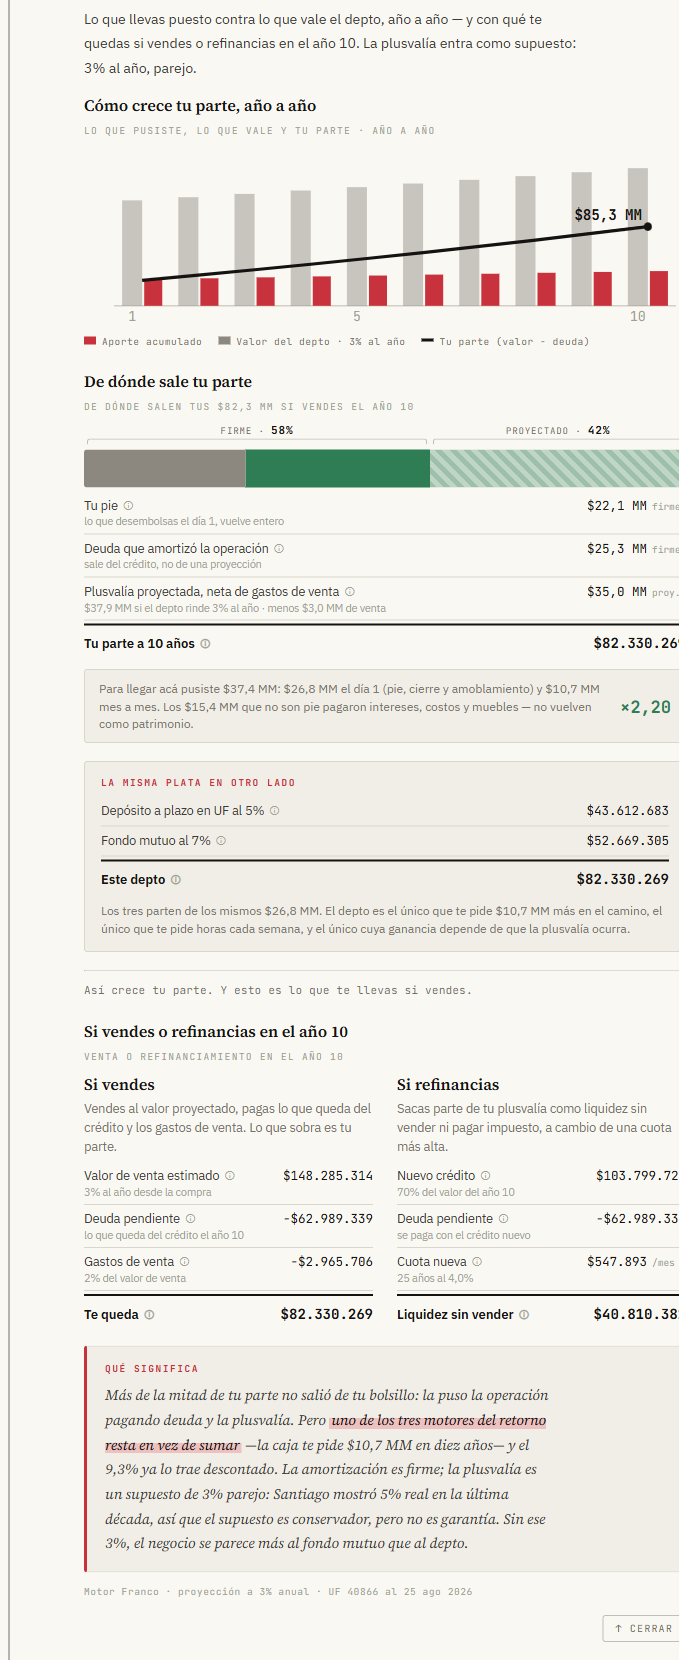
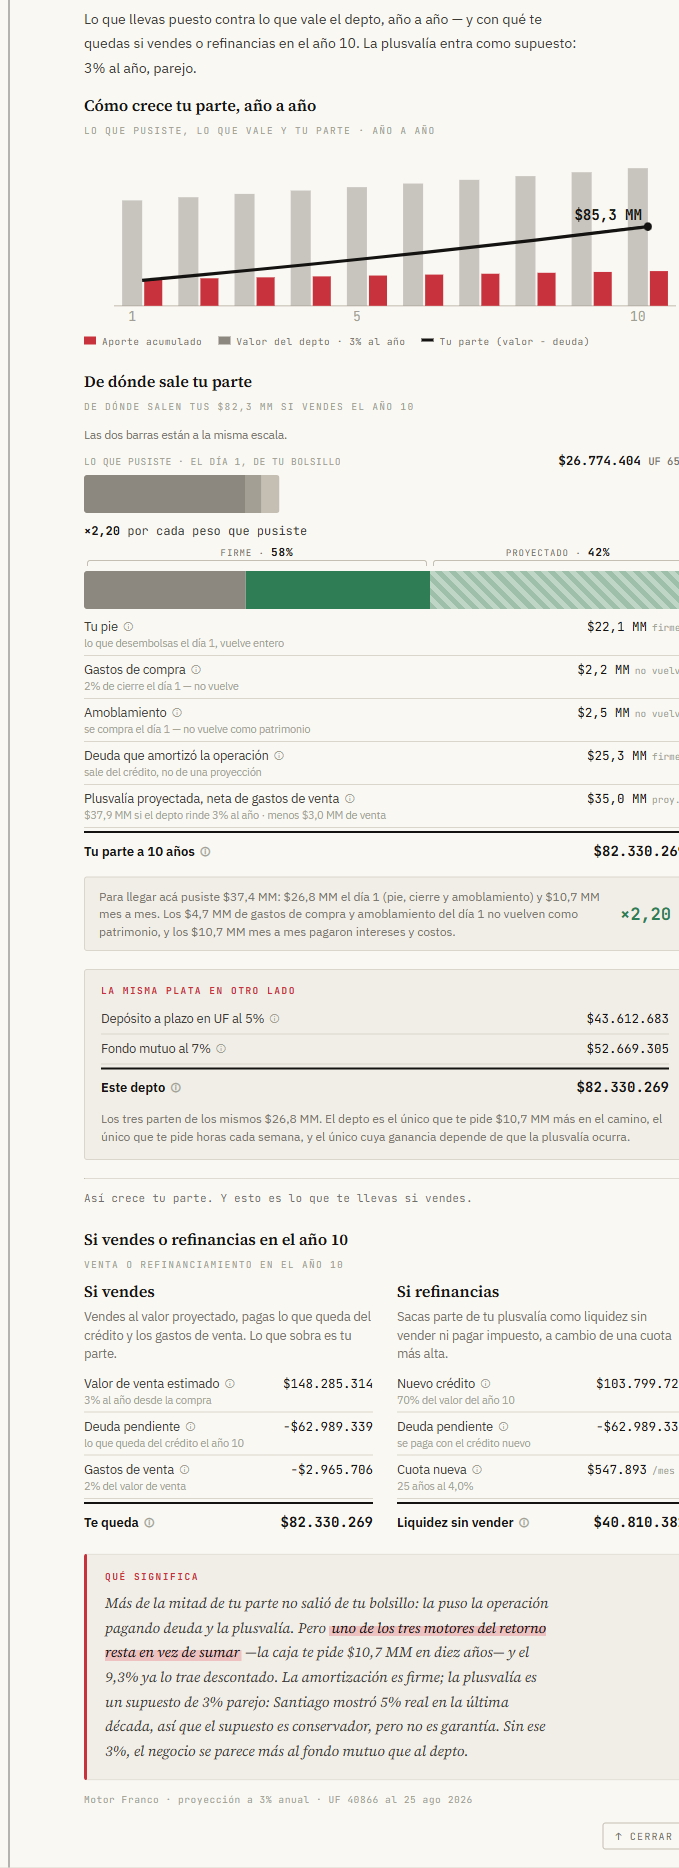
docs(wireframes): CONGELADO STR · capítulo VI adopta el bloque del día 1 como LTR (cuarto tono amoblamiento, "no vuelve", multiplicador sobre lo puesto)
Barra «Lo que pusiste · el día 1» a la misma escala que «tu parte» con pie, gastos de
compra y amoblamiento (helper plata-dia1, cuarto tono), gastos de compra y amoblamiento
como filas «no vuelve» en «De dónde sale tu parte», y el multiplicador sobre lo puesto.
Caja de decisiones al día. Shots PC y 390 del VI. Sin nueva aprobación (T0 · 6).

diff --git a/docs/wireframes/rediseno-informe/mockup-str-CONGELADO.html b/docs/wireframes/rediseno-informe/mockup-str-CONGELADO.html
@@ -505,7 +505,7 @@
   .drow .tip{font-style:normal;font-family:var(--sans);font-size:11px;color:var(--tx4);margin-left:5px;cursor:help;vertical-align:1px}
   .drow .dk small{display:block;font-size:10.5px;color:var(--tx4);margin-top:1px;line-height:1.35}
   .drow .dv{font-family:var(--mono);font-size:12.5px;color:var(--tx);white-space:nowrap;text-align:right;font-variant-numeric:tabular-nums}
-  .drow .dv em{font-style:normal;font-family:var(--mono);font-size:9.5px;color:var(--tx4);display:inline-block;width:34px;text-align:left;margin-left:5px}
+  .drow .dv em{font-style:normal;font-family:var(--mono);font-size:9.5px;color:var(--tx4);display:inline-block;min-width:34px;text-align:left;margin-left:5px}
   .drow.in .dk{color:var(--tx);font-weight:600} .drow.in .dv{font-weight:700}
   .drow.neg .dv{color:var(--signal)} .drow.cruza .dv{color:var(--good);font-weight:700}
   .drow.tot{border-top:2px solid var(--tx);border-bottom:none;margin-top:3px;padding-top:8px}
@@ -518,6 +518,13 @@
   .venta2 h4{font-family:var(--serif);font-size:16px;font-weight:600;margin-bottom:4px}
   .venta2 .ex{font-size:12.5px;color:var(--tx3);line-height:1.5;margin-bottom:6px;min-height:57px} [data-view="mobile"] .venta2 .ex{min-height:0}
   .cur span{cursor:pointer}
+  .dia1{margin:14px 0 6px} .dia1-head{display:flex;justify-content:space-between;align-items:baseline;gap:10px;margin-bottom:6px}
+  .dia1-head .k{font-family:var(--mono);font-size:9.5px;letter-spacing:.06em;text-transform:uppercase;color:var(--tx4)} .dia1-head .v{font-family:var(--mono);font-size:12.5px;font-weight:700} .dia1-head .v small{font-size:10.5px;font-weight:500;color:var(--tx3)}
+  .dia1-bar{display:flex;height:38px;border-radius:3px;overflow:hidden;max-width:100%} .dia1-bar span{position:relative;height:100%}
+  .dia1-bar .pie{background:var(--neutral)} .dia1-bar .gastos{background:var(--tx4)} .dia1-bar .amoblamiento{background:var(--line2)} .dia1-bar .capex{background:var(--line2)}
+  .dia1-bar .capex::after{content:'';position:absolute;inset:0;background:repeating-linear-gradient(45deg,transparent,transparent 5px,rgba(255,255,255,.5) 5px,rgba(255,255,255,.5) 10px)}
+  .dia1-mult{font-family:var(--mono);font-size:12px;color:var(--tx2);margin-top:10px} .dia1-mult b{color:var(--tx);font-weight:700}
+  .dia1-nota{font-size:11.5px;color:var(--tx3);margin-bottom:10px}
   .muere{border:1px dashed var(--line2);padding:12px 16px;margin-bottom:18px;font-size:12.5px;color:var(--tx2);line-height:1.6;max-width:80ch}
   .muere b{color:var(--tx3);font-family:var(--mono);font-size:10px;letter-spacing:.14em;text-transform:uppercase;display:block;margin-bottom:5px}
   .muere code{font-family:var(--mono);font-size:11px;background:var(--paper3);padding:1px 4px;border-radius:2px}
@@ -537,6 +544,7 @@
       <li><strong>Modal de vías · pie con la regla LTR:</strong> se explora hasta el tope de 30% y se dice «cruza» o «no cruza» con el recompute (−$84.407 → −$26.166 al mes a 30% de pie, no cruza).</li>
       <li><strong>Seis cifras con toggle CLP/UF:</strong> ingreso, flujo y tarifa por noche cambian; <em>cap rate</em>, TIR y ocupación no. Mismo fix pendiente en LTR (cola).</li>
       <li><strong>III:</strong> muere la línea «Objetivo con gestión estabilizada, para el escenario de arriba». Se mantiene lo de v2: «Cuántas noches necesitas», diales sin solapamiento, sin «llenar», zona con el contexto comunal V2 y sin el 22% hasta que AirROI responda.</li>
+      <li><strong>VI · el día 1 como en LTR:</strong> barra «Lo que pusiste · el día 1» a la misma escala que «tu parte» (helper <code>plata-dia1</code>, cuarto tono «amoblamiento»), gastos de compra y amoblamiento como filas «no vuelve», multiplicador sobre lo puesto (T0, sin nueva aprobación).</li>
       <li><strong>Prosa IA:</strong> hero, posición y cajas siguen siendo la prosa persistida; al congelar se regenera con v13 y los guards. El mockup fija el lugar de cada pieza, no su texto.</li>
     </ol>
   </div>
@@ -794,10 +802,16 @@
               </svg>
               <div class="chart-leg"><span style="--c:var(--signal)">Aporte acumulado</span><span style="--c:var(--neutral)">Valor del depto · 3% al año</span><span class="ln" style="--c:var(--tx)">Tu parte (valor − deuda)</span></div>
               <div class="v-sub">De dónde sale tu parte</div><div class="v-viz-t">De dónde salen tus $82,3 MM si vendes el año 10</div>
+              <div class="dia1">
+                <p class="dia1-nota">Las dos barras están a la misma escala.</p>
+                <div class="dia1-head"><span class="k">Lo que pusiste · el día 1, de tu bolsillo</span><span class="v">$26.774.404 <small>UF 655</small></span></div>
+                <div class="dia1-bar" style="width:32.5%"><span class="pie" style="width:82.4%" title="pie: $22.067.640"></span><span class="gastos" style="width:8.2%" title="gastos: $2.206.764"></span><span class="amoblamiento" style="width:9.3%" title="amoblamiento: $2.500.000"></span></div>
+                <p class="dia1-mult"><b>×2,20</b> por cada peso que pusiste</p>
+              </div>
               <div class="brackets"><div class="bracket" style="width:57.5%">Firme · <b>58%</b></div><div class="bracket" style="width:42.5%">Proyectado · <b>42%</b></div></div>
               <div class="compo2"><div class="seg-c pie" style="width:26.8%"></div><div class="seg-c amort" style="width:30.7%"></div><div class="seg-c plus" style="width:42.5%"></div></div>
-              <div class="drows"><div class="drow "><span class="dk">Tu pie<i class="tip" title="Firme: no depende de proyección" aria-label="Firme: no depende de proyección">ⓘ</i><small>lo que desembolsas el día 1, vuelve entero</small></span><span class="dv">$22,1 MM<em>firme</em></span></div><div class="drow "><span class="dk">Deuda que amortizó la operación<i class="tip" title="Firme: capital pagado del crédito en 10 años" aria-label="Firme: capital pagado del crédito en 10 años">ⓘ</i><small>sale del crédito, no de una proyección</small></span><span class="dv">$25,3 MM<em>firme</em></span></div><div class="drow "><span class="dk">Plusvalía proyectada, neta de gastos de venta<i class="tip" title="Proyectado: supuesto de 3% anual" aria-label="Proyectado: supuesto de 3% anual">ⓘ</i><small>$37,9 MM si el depto rinde 3% al año · menos $3,0 MM de venta</small></span><span class="dv">$35,0 MM<em>proy.</em></span></div><div class="drow tot"><span class="dk">Tu parte a 10 años<i class="tip" title="Pie + amortización + plusvalía neta" aria-label="Pie + amortización + plusvalía neta">ⓘ</i></span><span class="dv">$82.330.269</span></div></div>
-              <div class="mult"><span class="k">Para llegar acá pusiste $37,4 MM: $26,8 MM el día 1 (pie, cierre y amoblamiento) y $10,7 MM mes a mes. Los $15,4 MM que no son pie pagaron intereses, costos y muebles — no vuelven como patrimonio.</span><span class="v">×2,20</span></div>
+              <div class="drows"><div class="drow "><span class="dk">Tu pie<i class="tip" title="Firme: no depende de proyección" aria-label="Firme: no depende de proyección">ⓘ</i><small>lo que desembolsas el día 1, vuelve entero</small></span><span class="dv">$22,1 MM<em>firme</em></span></div><div class="drow "><span class="dk">Gastos de compra<i class="tip" title="Notaría, inscripción y estudio de títulos" aria-label="Notaría, inscripción y estudio de títulos">ⓘ</i><small>2% de cierre el día 1 — no vuelve</small></span><span class="dv">$2,2 MM<em>no vuelve</em></span></div><div class="drow "><span class="dk">Amoblamiento<i class="tip" title="Muebles y equipamiento del depto" aria-label="Muebles y equipamiento del depto">ⓘ</i><small>se compra el día 1 — no vuelve como patrimonio</small></span><span class="dv">$2,5 MM<em>no vuelve</em></span></div><div class="drow "><span class="dk">Deuda que amortizó la operación<i class="tip" title="Firme: capital pagado del crédito en 10 años" aria-label="Firme: capital pagado del crédito en 10 años">ⓘ</i><small>sale del crédito, no de una proyección</small></span><span class="dv">$25,3 MM<em>firme</em></span></div><div class="drow "><span class="dk">Plusvalía proyectada, neta de gastos de venta<i class="tip" title="Proyectado: supuesto de 3% anual" aria-label="Proyectado: supuesto de 3% anual">ⓘ</i><small>$37,9 MM si el depto rinde 3% al año · menos $3,0 MM de venta</small></span><span class="dv">$35,0 MM<em>proy.</em></span></div><div class="drow tot"><span class="dk">Tu parte a 10 años<i class="tip" title="Pie + amortización + plusvalía neta" aria-label="Pie + amortización + plusvalía neta">ⓘ</i></span><span class="dv">$82.330.269</span></div></div>
+              <div class="mult"><span class="k">Para llegar acá pusiste $37,4 MM: $26,8 MM el día 1 (pie, cierre y amoblamiento) y $10,7 MM mes a mes. Los $4,7 MM de gastos de compra y amoblamiento del día 1 no vuelven como patrimonio, y los $10,7 MM mes a mes pagaron intereses y costos.</span><span class="v">×2,20</span></div>
               <div class="oport"><div class="bt">La misma plata en otro lado</div>
                 <div class="drows"><div class="drow "><span class="dk">Depósito a plazo en UF al 5%<i class="tip" title="Los mismos $26,8 MM a 5% anual en UF, 10 años" aria-label="Los mismos $26,8 MM a 5% anual en UF, 10 años">ⓘ</i></span><span class="dv">$43.612.683</span></div><div class="drow "><span class="dk">Fondo mutuo al 7%<i class="tip" title="Los mismos $26,8 MM a 7% anual, 10 años" aria-label="Los mismos $26,8 MM a 7% anual, 10 años">ⓘ</i></span><span class="dv">$52.669.305</span></div><div class="drow tot"><span class="dk">Este depto<i class="tip" title="Tu parte al vender el año 10" aria-label="Tu parte al vender el año 10">ⓘ</i></span><span class="dv">$82.330.269</span></div></div>
                 <p class="nota">Los tres parten de los mismos $26,8 MM. El depto es el único que te pide $10,7 MM más en el camino, el único que te pide horas cada semana, y el único cuya ganancia depende de que la plusvalía ocurra.</p></div>
